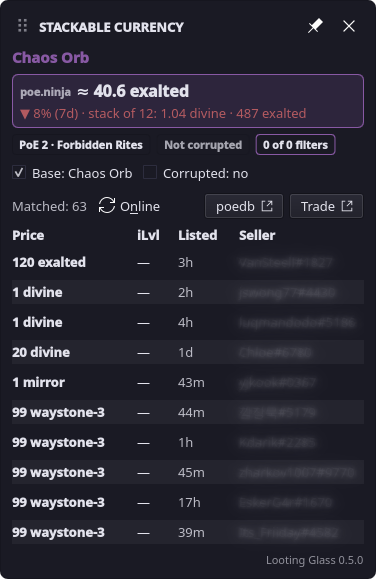
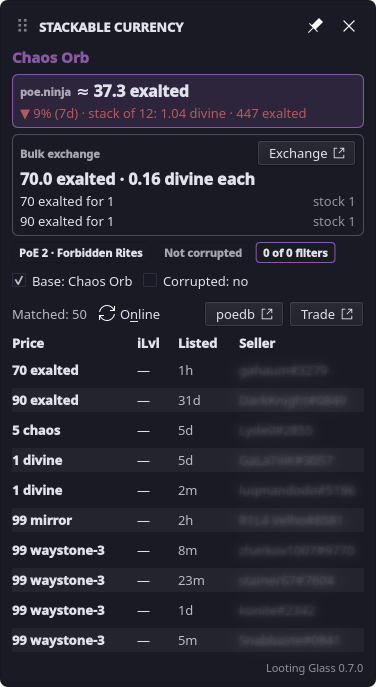
feat: bulk exchange offers for currency and other stackables (#43)
* feat: bulk exchange offers for currency and other stackables

Stackables now also show the cheapest current offers from the trade site's
bulk exchange (ratio, stock, price per unit in chaos/exalted and divine) with
a link to the same exchange search; poe.ninja stays as the reference value.
Both games; ids come from /data/static, mock.rs has canned replies.

Closes #28

* fix: collapse if in exchange lookup

---------

diff --git a/qml/Main.qml b/qml/Main.qml
@@ -296,6 +296,43 @@ Window {
                     }
                 }
 
+                // Trade site bulk exchange for stackables: the cheapest current offers.
+                Rectangle {
+                    id: exBox
+                    readonly property var ex: {
+                        try { return Backend.exchange ? JSON.parse(Backend.exchange) : null } catch (e) { return null }
+                    }
+                    visible: ex !== null
+                    Layout.fillWidth: true
+                    implicitHeight: exCol.implicitHeight + 12
+                    radius: 6
+                    color: "transparent"
+                    border.color: Qt.rgba(pal.windowText.r, pal.windowText.g, pal.windowText.b, 0.25)
+                    ColumnLayout {
+                        id: exCol
+                        anchors { left: parent.left; right: parent.right; verticalCenter: parent.verticalCenter; margins: 8 }
+                        spacing: 2
+                        RowLayout {
+                            Label { text: "Bulk exchange"; font.pointSize: 8; font.bold: true; opacity: 0.7; Layout.fillWidth: true }
+                            LinkButton { label: "Exchange"; url: exBox.ex ? exBox.ex.url : "" }
+                        }
+                        Label {
+                            text: exBox.ex ? exBox.ex.best + " each" : ""
+                            font.pointSize: 12; font.bold: true
+                            elide: Text.ElideRight
+                            Layout.fillWidth: true
+                        }
+                        Repeater {
+                            model: exBox.ex ? exBox.ex.offers : []
+                            RowLayout {
+                                required property var modelData
+                                Label { text: modelData.ratio; Layout.fillWidth: true; elide: Text.ElideRight }
+                                Label { text: "stock " + modelData.stock; opacity: 0.6 }
+                            }
+                        }
+                    }
+                }
+
                 Flow {
                     visible: win.hasSpec
                     Layout.fillWidth: true

diff --git a/src/exchange.rs b/src/exchange.rs
@@ -1,0 +1,175 @@
+//! Trade site bulk exchange for stackables: the cheapest current offers for an item, next to the
+//! poe.ninja average. Ids come from the trade API's `/data/static`; both games share the API shape
+//! (`/api/trade/exchange/<league>`, `/api/trade2/exchange/poe2/<league>`).
+
+use crate::config::{Game, urlencode};
+use crate::trade::{HTTP, send};
+use anyhow::{Context, Result};
+use serde::Serialize;
+use serde_json::{Value, json};
+use std::collections::HashMap;
+use tokio::sync::OnceCell;
+
+/// Lowercase item name -> exchange id ("divine orb" -> "divine"), per game.
+static IDS: [OnceCell<HashMap<String, String>>; 2] = [OnceCell::const_new(), OnceCell::const_new()];
+
+/// Offers shown in the overlay.
+const SHOWN: usize = 4;
+
+async fn ids(game: Game, ua: &str) -> Result<&'static HashMap<String, String>> {
+    IDS[game as usize]
+        .get_or_try_init(|| async {
+            let v = send(HTTP.get(format!("{}/data/static", game.api())), ua).await?;
+            Ok::<_, anyhow::Error>(
+                v["result"]
+                    .as_array()
+                    .into_iter()
+                    .flatten()
+                    .flat_map(|g| g["entries"].as_array().into_iter().flatten())
+                    .filter_map(|e| Some((e["text"].as_str()?.to_lowercase(), e["id"].as_str()?.to_string())))
+                    .collect(),
+            )
+        })
+        .await
+}
+
+#[derive(Debug, Clone, Serialize, PartialEq)]
+pub struct Offer {
+    /// "880 chaos for 1"
+    pub ratio: String,
+    pub stock: u64,
+    /// Price of one item in the paying currency.
+    pub unit: f64,
+}
+
+#[derive(Debug, Clone, Serialize, PartialEq)]
+pub struct Exchange {
+    /// Cheapest offers first.
+    pub offers: Vec<Offer>,
+    /// Best price per unit, e.g. "880 chaos · 1.00 divine".
+    pub best: String,
+    pub total: u64,
+    pub url: String,
+}
+
+/// Currency the item is priced in: chaos (PoE 1) or exalted (PoE 2), or divine for that currency itself.
+fn paying(game: Game, id: &str) -> &'static str {
+    let small = match game {
+        Game::Poe1 => "chaos",
+        Game::Poe2 => "exalted",
+    };
+    if id == small { "divine" } else { small }
+}
+
+fn fmt(v: f64) -> String {
+    if v >= 100.0 {
+        format!("{v:.0}")
+    } else if v >= 10.0 {
+        format!("{v:.1}")
+    } else {
+        format!("{v:.2}")
+    }
+}
+
+/// Bulk exchange offers for `name`; None if the item isn't traded on the exchange. The best unit
+/// price is also shown in divine, at poe.ninja's rate.
+pub async fn lookup(game: Game, league: &str, status: &str, name: &str, ua: &str) -> Result<Option<Exchange>> {
+    let Some(id) = ids(game, ua).await?.get(&name.to_lowercase()) else {
+        return Ok(None);
+    };
+    let pay = paying(game, id);
+    // The exchange knows "online" and "any"; PoE 2's instant buyout is a search-only status.
+    let status = if status == "any" { "any" } else { "online" };
+    let body = json!({
+        "query": { "status": { "option": status }, "have": [pay], "want": [id] },
+        "sort": { "have": "asc" },
+        "engine": "new",
+    });
+    let url = format!("{}/exchange/{}{}", game.api(), game.realm_path(), urlencode(league));
+    let v = send(HTTP.post(url).json(&body), ua).await?;
+    let search_id = v["id"].as_str().context("exchange returned no id")?;
+
+    let mut offers: Vec<Offer> = v["result"]
+        .as_object()
+        .into_iter()
+        .flat_map(|r| r.values())
+        .flat_map(|r| r["listing"]["offers"].as_array().into_iter().flatten())
+        .filter_map(offer)
+        .collect();
+    offers.sort_by(|a, b| a.unit.total_cmp(&b.unit));
+    offers.truncate(SHOWN);
+    let Some(first) = offers.first() else {
+        return Ok(None);
+    };
+    let mut best = format!("{} {pay}", fmt(first.unit));
+    if pay != "divine"
+        && let Some(d) = crate::ninja::per_divine(game, league, pay, ua).await.filter(|d| *d > 0.0)
+    {
+        best.push_str(&format!(" · {} divine", fmt(first.unit / d)));
+    }
+    Ok(Some(Exchange {
+        best,
+        offers,
+        total: v["total"].as_u64().unwrap_or(0),
+        url: web_url(game, league, search_id),
+    }))
+}
+
+fn offer(o: &Value) -> Option<Offer> {
+    let paid = o["exchange"]["amount"].as_f64()?;
+    let got = o["item"]["amount"].as_f64().filter(|g| *g > 0.0)?;
+    let pay = o["exchange"]["currency"].as_str()?;
+    Some(Offer {
+        ratio: format!("{} {pay} for {}", fmt_amount(paid), fmt_amount(got)),
+        stock: o["item"]["stock"].as_u64().unwrap_or(0),
+        unit: paid / got,
+    })
+}
+
+fn fmt_amount(v: f64) -> String {
+    if v.fract() == 0.0 { format!("{v:.0}") } else { format!("{v}") }
+}
+
+fn web_url(game: Game, league: &str, id: &str) -> String {
+    let seg = match game {
+        Game::Poe1 => "trade",
+        Game::Poe2 => "trade2",
+    };
+    format!("https://www.pathofexile.com/{seg}/exchange/{}{}/{id}", game.realm_path(), urlencode(league))
+}
+
+#[cfg(test)]
+mod tests {
+    //! Run against `mock.rs` (always on in tests).
+    use super::*;
+
+    fn block<T>(f: impl Future<Output = T>) -> T {
+        tokio::runtime::Builder::new_current_thread().enable_all().build().unwrap().block_on(f)
+    }
+
+    #[test]
+    fn poe1_offers_cheapest_first_with_divine_value() {
+        let ex = block(lookup(Game::Poe1, "Standard", "online", "Exalted Orb", "test")).unwrap().unwrap();
+        let units: Vec<f64> = ex.offers.iter().map(|o| o.unit).collect();
+        assert_eq!(units, vec![14.0, 15.0, 15.5, 16.0]);
+        assert_eq!(ex.offers[0].ratio, "70 chaos for 5");
+        assert_eq!(ex.offers[0].stock, 40);
+        assert_eq!(ex.best, "14.0 chaos · 0.08 divine");
+        assert_eq!(ex.url, "https://www.pathofexile.com/trade/exchange/Standard/mockex");
+    }
+
+    #[test]
+    fn poe2_prices_in_exalted_and_divine_in_divine_itself() {
+        let ex = block(lookup(Game::Poe2, "Mock League", "securable", "Chaos Orb", "test")).unwrap().unwrap();
+        assert_eq!(ex.best, "14.0 exalted · 0.04 divine", "400 exalted per divine in the mock");
+        assert_eq!(ex.url, "https://www.pathofexile.com/trade2/exchange/poe2/Mock%20League/mockex");
+        // The paying currency itself is priced in divine.
+        let ex = block(lookup(Game::Poe2, "Standard", "online", "Exalted Orb", "test")).unwrap().unwrap();
+        assert!(ex.best.ends_with(" divine") && !ex.best.contains('·'), "{}", ex.best);
+    }
+
+    #[test]
+    fn items_not_on_the_exchange_have_no_offers() {
+        assert_eq!(block(lookup(Game::Poe1, "Standard", "online", "Tabula Rasa", "test")).unwrap(), None);
+    }
+}

diff --git a/src/mock.rs b/src/mock.rs
@@ -129,6 +129,28 @@ pub fn response(method: &str, url: &str) -> Option<Value> {
         let entries: Vec<Value> = BASES.iter().map(|b| json!({ "type": b })).collect();
         return Some(json!({ "result": [{ "label": "Mock", "entries": entries }] }));
     }
+    if path.ends_with("/data/static") {
+        let entries: Vec<Value> = [("divine", "Divine Orb"), ("chaos", "Chaos Orb"), ("exalted", "Exalted Orb")]
+            .iter()
+            .map(|(id, text)| json!({ "id": id, "text": text }))
+            .collect();
+        return Some(json!({ "result": [{ "id": "Currency", "label": "Currency", "entries": entries }] }));
+    }
+    if method == "POST" && path.contains("/exchange/") {
+        // Unsorted, like the real reply (an object keyed by listing id): units 15, 14, 16, 15.5, 17.
+        let cur = if path.contains("/trade2/") { "exalted" } else { "chaos" };
+        let result: serde_json::Map<String, Value> = [(30.0, 2.0, 12), (70.0, 5.0, 40), (16.0, 1.0, 3), (31.0, 2.0, 9), (17.0, 1.0, 100)]
+            .iter()
+            .enumerate()
+            .map(|(i, (paid, got, stock))| {
+                (format!("ex{i}"), json!({ "listing": { "offers": [{
+                    "exchange": { "currency": cur, "amount": paid },
+                    "item": { "currency": "mock", "amount": got, "stock": stock },
+                }]}}))
+            })
+            .collect();
+        return Some(json!({ "id": "mockex", "total": 5, "result": result }));
+    }
     if method == "POST" && path.contains("/search/") {
         let ids: Vec<String> = (0..13).map(|i| format!("mock{i}")).collect();
         return Some(json!({ "id": "mock", "total": 13, "result": ids }));

diff --git a/src/main.rs b/src/main.rs
@@ -8,6 +8,7 @@ mod devcache;
 mod mock;
 mod item;
 mod links;
+mod exchange;
 mod ninja;
 mod platform;
 mod pseudo;
@@ -203,6 +204,7 @@ async fn check_text(text: String) {
     if matches!(item.rarity, Currency | DivinationCard | Normal | Gem | Other) {
         let (game, league, ua) = (cfg.game, cfg.league().to_string(), cfg.user_agent());
         let (name, stack) = (item.base.clone(), item.stack_size);
+        let (league2, name2, ua2, status) = (league.clone(), name.clone(), ua.clone(), cfg.trade.status.clone());
         tokio::spawn(async move {
             if let Some((main, detail)) = ninja::lookup(game, &league, &name, stack, &ua).await {
                 ui(move |mut b| {
@@ -211,11 +213,23 @@ async fn check_text(text: String) {
                 });
             }
         });
+        // The trade site's bulk exchange: what people ask right now, next to the poe.ninja average.
+        tokio::spawn(async move {
+            match exchange::lookup(game, &league2, &status, &name2, &ua2).await {
+                Ok(Some(ex)) => {
+                    let json = q(serde_json::to_string(&ex).unwrap_or_default());
+                    ui(move |b| b.set_exchange(json));
+                }
+                Ok(None) => {}
+                Err(e) => log::warn!("bulk exchange: {e:#}"),
+            }
+        });
     }
     ui(move |mut b| {
         b.as_mut().set_title(title);
         b.as_mut().set_ninja(q(""));
         b.as_mut().set_ninja_detail(q(""));
+        b.as_mut().set_exchange(q(""));
         b.as_mut().set_spec(q(""));
         b.as_mut().set_overlay_state(q("loading"));
         b.as_mut().set_listings(q("[]"));

diff --git a/src/ninja.rs b/src/ninja.rs
@@ -114,6 +114,11 @@ fn fmt(v: f64) -> String {
     }
 }
 
+/// How many of currency `cur` ("chaos", "exalted") one Divine Orb is worth.
+pub async fn per_divine(game: Game, league: &str, cur: &str, ua: &str) -> Option<f64> {
+    table(game, league, ua).await.get("divine orb")?.values.get(cur).copied()
+}
+
 /// e.g. ("≈ 1.20 divine · 257 chaos", "▲ 5% (7d) · stack of 12: 3.1 divine"); None if unknown.
 pub async fn lookup(game: Game, league: &str, name: &str, stack: Option<u32>, ua: &str) -> Option<(String, String)> {
     let t = table(game, league, ua).await;
@@ -156,6 +161,12 @@ mod tests {
         let (main, detail) = block(lookup(Game::Poe2, "Standard", "chaos orb", None, "test")).unwrap();
         assert_eq!(main, "≈ 20.0 exalted");
         assert_eq!(detail, "▼ 1% (7d)");
+    }
+
+    #[test]
+    fn divine_rate_in_small_currency() {
+        assert_eq!(block(per_divine(Game::Poe1, "Standard", "chaos", "test")), Some(182.0));
+        assert_eq!(block(per_divine(Game::Poe2, "Standard", "exalted", "test")), Some(400.0));
     }
 
     #[test]

diff --git a/src/trade.rs b/src/trade.rs
@@ -10,7 +10,7 @@ use std::collections::HashMap;
 use std::sync::LazyLock;
 use tokio::sync::OnceCell;
 
-static HTTP: LazyLock<reqwest::Client> = LazyLock::new(|| {
+pub(crate) static HTTP: LazyLock<reqwest::Client> = LazyLock::new(|| {
     reqwest::Client::builder()
         .timeout(std::time::Duration::from_secs(15))
         .build()
@@ -80,7 +80,7 @@ pub struct Spec {
     pub filters: Vec<Filter>,
 }
 
-async fn send(req: reqwest::RequestBuilder, ua: &str) -> Result<Value> {
+pub(crate) async fn send(req: reqwest::RequestBuilder, ua: &str) -> Result<Value> {
     crate::devcache::json(req, |req| send_live(req, ua)).await
 }
 

diff --git a/src/bridge.rs b/src/bridge.rs
@@ -22,6 +22,7 @@ pub mod qobject {
         #[qproperty(QString, spec)]
         #[qproperty(QString, ninja)]
         #[qproperty(QString, ninja_detail)]
+        #[qproperty(QString, exchange)]
         #[qproperty(i32, overlay_max_height)]
         #[qproperty(QString, snapshot_dir)]
         #[qproperty(QString, demo_text)]
@@ -111,6 +112,8 @@ pub struct BackendRust {
     spec: QString,
     ninja: QString,
     ninja_detail: QString,
+    /// Bulk exchange offers as JSON (`exchange::Exchange`), or empty.
+    exchange: QString,
     overlay_max_height: i32,
     snapshot_dir: QString,
     demo_text: QString,

diff --git a/README.md b/README.md
@@ -58,6 +58,8 @@ all use the desktop's native mechanisms.
 - **Weapon DPS filters.** Physical, elemental and total DPS, attack speed and critical chance.
 - **poe.ninja prices** for currency, fragments, essences, scarabs, divination cards, runes, omens
   and other stackables, including the 7-day trend and the value of the whole stack.
+- **Bulk exchange offers.** Next to the poe.ninja average, the cheapest offers on the trade site's
+  bulk exchange right now, with stock, the price per unit and a link to the same exchange search.
 - **PoE 1 and PoE 2 in one app.** Switch game from the tray, the settings or a hotkey; each game
   remembers its own league.
 - **Results at a glance.** Price, item level, listing age and seller, with an online/any toggle and
